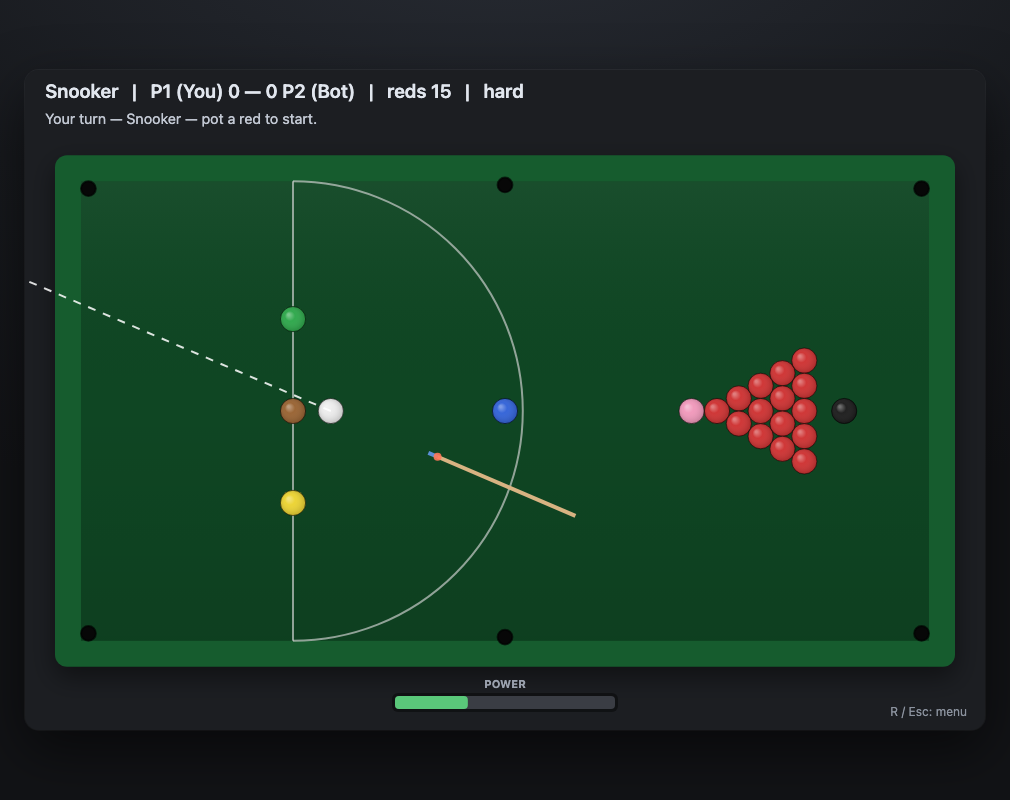
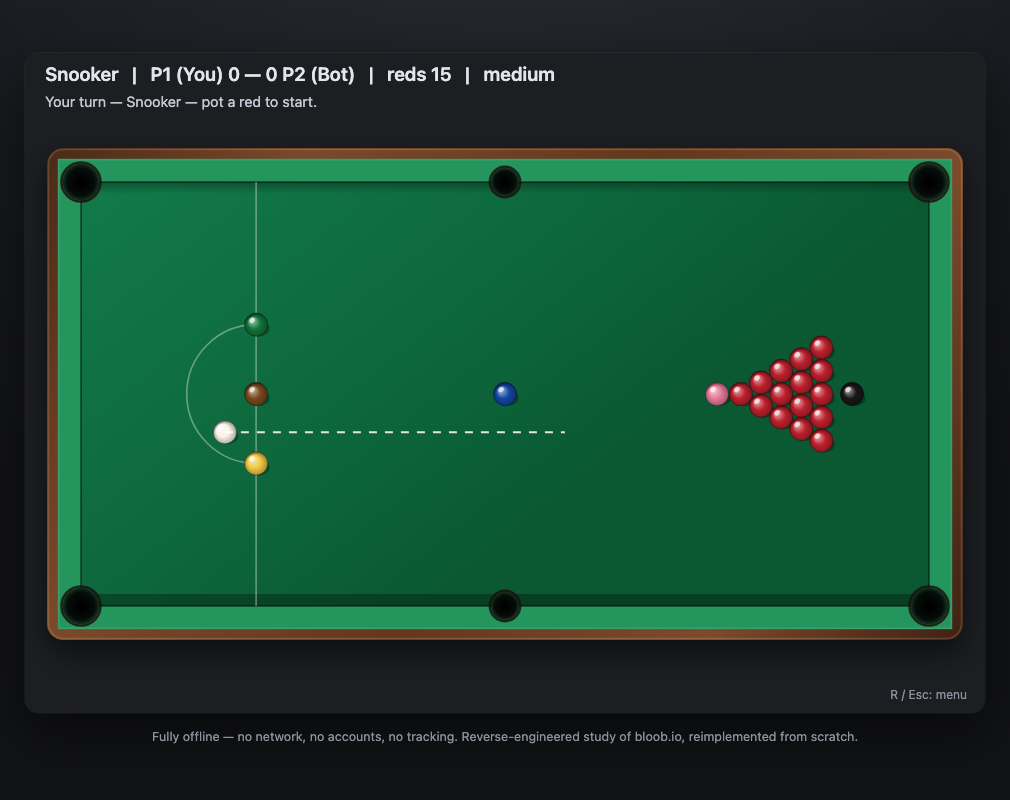
docs: document position play, standard snooker table; add Pages deploy
Also adds a GitHub Actions workflow that publishes web/ to GitHub Pages on
every push to main.

diff --git a/docs/REA_findings.md b/docs/REA_findings.md
@@ -72,8 +72,10 @@
 - **我们的复刻**（均自写，见 `src/bot.py`）：对每个合法目标球 × 每个袋，用**幽灵球（ghost-ball）**算出母球应到达的触点，做母→幽灵、目标→袋两条**路径贯通检查**；仅对几何通透的候选在克隆世界上模拟，再按模式评分：
   - 8 球：自己球组落袋 +100、对手球 -30、母球进袋 -250、未清组误落 8 直接 -1000、通透加 +25、清组后合法 8 球 +500。
   - 斯诺克：落袋按分值计分（红 1 / 黄 2 / 绿 3 / 棕 4 / 蓝 5 / 粉 6 / 黑 7）；犯规（母球进袋 / 首球非法 / 漏球）对手得 `max(4, 首球值, 落袋值)`。
-  - 找不到可落袋候选时走**安全球**：轻碰最近的合法球、避免进袋。
-  - 难度档（`DIFFICULTY`）：easy/medium/hard 调整瞄准噪声、候选搜索深度、力度抖动；hard 几乎零噪声、全搜索。
+- 找不到可落袋候选时走**安全球**：轻碰最近的合法球、避免进袋。
+- **走位评估（REIMPLEMENTATION，自写）**：每个模拟候选都会记录**母球停点**，再用同一套幽灵球检查判断"从这个位置还有没有清晰下一杆"——按 **8 球分组 / 斯诺克阶段**推出"下一杆 on 球"，遍历其 × 袋口，取最好的通透度（距离越短越优）归一化到 0..1。落袋后无清晰下一杆时给**负分**，所以 bot 会宁愿选一杆略难但留得住位的球。权重：8 球 `+60`（死位 `-22`），斯诺克 `+6`（死位 `-2.5`）。
+- **一库解球（REIMPLEMENTATION，自写）**：无可落袋候选时（被斯诺克），把每个目标球对**每条库边**做镜像，求"母球→镜像点"与库边线段的交点得到撞库点（沿入射方向回退一个球半径补偿），检查母→撞库点、撞库点→目标两条路径，再在克隆世界模拟；优先选**首球合法**的线路（+30，母球进袋 -300、漏球 -60、首球非法 -120）。都不可行才退回安全球。
+- 难度档（`DIFFICULTY`）：easy/medium/hard 调整瞄准噪声、候选搜索深度、力度抖动；hard 几乎零噪声、全搜索。
 
 ## 6. 未知 / 局限（UNKNOWN）与已决建模
 - 碰撞积分公式（自研 vs Matter.js 风格）— 引擎块未静态定位，无法确认 → **我们采用标准脉冲式圆-圆弹性碰撞 + 库边反射**。
@@ -83,7 +85,8 @@
 - `hole.radius`(5/11) 小于球半径 → 字面复刻下球几乎无法落袋 → **落袋捕获半径放宽为 1.5× 球半径**（袋口"嘴"略宽），保证可玩；库边缺口(gap)取 1.1× 球半径。
 - 斯诺克状态一致性 → **红球落袋无论是否犯规都同步递减计数**；红球未清空前落袋彩球一律重摆（见 §4 "斯诺克状态一致性" 决策）。这是复刻过程中实测发现并修复的 bug（bot-vs-bot 时计数漂移导致卡死）。
 - 高速球**可能从袋口缝隙逃出台面**（角袋缺口的对角长约 17.1 > 捕获半径 16.5，存在一条细缝）→ 增加**台面边界兜底**：出界且靠近袋口判定为落袋，否则夹回台内并按库边弹性反弹。修复后模拟必收敛、球永不离台（见 `_contain_ball`）。
-- 斯诺克母球初始位置与棕球重合（均在 `baulk_x, H/2`）→ 母球改为在 D 区内偏移 `3r` 起步；红球三角架方向原本朝左（宽底压住蓝球）→ 改为**顶点朝开球端、向黑球方向张开**，粉球/黑球点位同步微调（6→0.72W、7→0.90W）。
+- 斯诺克母球初始位置与棕球重合（均在 `baulk_x, H/2`）→ 母球改为在 D 区内偏移起步；红球三角架方向原本朝左（宽底压住蓝球）→ 改为**顶点朝开球端、向黑球方向张开**。
+- **斯诺克台面尺寸/球组（REIMPLEMENTATION 决策，与 bloob 不同）**：bloob 的 `field` 为 572×310（1.85:1），**不是标准斯诺克比例**，画出来不像真台。改为标准 12ft 台比例 **2:1**（`620×310`），球半径 8.5（约 0.0137L，标准值 52.5/3569≈0.0147L，取小一点以保证 15 红三角与黑球之间不重叠），并按标准比例标定：开球线 `0.2065L`、D 区半径 `0.1636W`、蓝球 `0.5L`、粉球 `0.75L`、黑球 `0.9092L`（离顶库 324mm）、黄/绿在 D 区两端、棕球在 D 区中点。袋口位置改回**四角 + 两条长边中点**（标准 6 袋），角袋绘制半径大于中袋。
 
 ## 8. 引擎/bot 源码未静态可达（重要结论）
 - 已下载：8ballpool 静态 HTML 的全部 `/assets/*.js`（41 个）+ 台球相关专用块（`Game-*`、`PoolGame`、`poolGeneric`、`poolRackLogic`、`usePoolResources`）+ `app` 引用的全部 116 个块（含 `engine_hunt/` 全量扫描）。
@@ -98,7 +101,8 @@
 4. 界面/输入/渲染：`src/main.py`（pygame 菜单 + 弹弓式瞄准 + 动画步进 + HUD）。
 5. 全部代码独立重写，不含 bloob 专有代码/素材；bloob 原始 JS 仅在 `artifacts/`（被 `.gitignore` 排除，不入库）。
 6. **离线网页（`web/`）**：把上述物理/规则/bot **逐行移植为纯 JavaScript**，UI 用 Canvas 2D 重写。刻意使用 classic `<script>`（非 ES module），因此 `file://` 直接双击即可运行，无需本地服务器、零依赖、零网络。
-7. 验证：Node 无头跑逻辑不变量（14 项）+ 无头 DOM/Canvas 跑 UI 交互（20 项）；并用 headless Chrome 真实截图核对版式（见 `docs/screenshots/`）。
+7. 验证：Node 无头跑逻辑不变量（14 项）+ 走位/解球专项（6 项）+ 无头 DOM/Canvas 跑 UI 交互（20 项）；并用 headless Chrome 真实截图核对版式（见 `docs/screenshots/`）。
+8. **斯诺克台面按标准样式重绘**：木质台身、比台呢略亮的库边胶条、绿色台呢带光泽、开球线与 D 区、六个点位、角袋大于中袋、无色号的高光球体（母球象牙白）。
 
 > 建模决策（UNKNOWN 项）已在 §6 给出：摩擦用每秒指数衰减；落袋捕获半径放宽为 1.5× 球半径以保证可玩；
 > 另加台面边界兜底、母球在 D 区内偏移起步、红球三角架方向修正。移植到网页时这三处真实 bug 一并修复（Python / JS 双端同步）。

diff --git a/README.md b/README.md
@@ -58,10 +58,38 @@ docs/REA_findings.md     reverse-engineering findings & modelling decisions
 
 ## How the AI works
 
-For every legal target ball × pocket it computes the **ghost-ball** contact point, checks that both the
-cue→ghost and target→pocket paths are clear, simulates the shot on a clone of the world, and scores the
-outcome. It picks the best makeable pot, or plays a safety when none exists. Difficulty tiers change aim
-noise and search depth. The physics is framework-agnostic, so the bot runs headless.
+**Pot search.** For every legal target ball × pocket it computes the **ghost-ball** contact point, checks
+that both the cue→ghost and target→pocket paths are clear, simulates the shot on a clone of the world, and
+scores the outcome.
+
+**Position play (走位).** Every simulated candidate also reports where the **cue ball came to rest**. The bot
+then scores that resting position by asking "is there a clean pot available from here?" — it re-runs the
+ghost-ball check from the new cue position against the balls that will be *on* next (group-aware for 8-ball,
+phase-aware for snooker). A pot that leaves a good angle gets a bonus; a pot that leaves the cue snookered
+gets a **penalty**, so the bot prefers a slightly harder pot that keeps position.
+
+**Escape shots.** When nothing can be potted (blocked line, i.e. snookered), it mirrors each target across
+every cushion to build **one-rail bank/kick** lines, simulates them, and plays the one that legally contacts
+the ball that is on. A plain safety is the last resort.
+
+Difficulty tiers change aim noise, search depth and power jitter. The physics is framework-agnostic, so the
+whole bot runs headless (that is how it is verified).
+
+## Standard snooker table
+
+The snooker table is built to real proportions rather than bloob's 1.85:1 field:
+
+| Item | Standard | In game |
+|---|---|---|
+| Playing surface | 3569 × 1778 mm (**2:1**) | 620 × 310 units |
+| Baulk line | 737 mm from baulk cushion (**0.2065 L**) | same fraction |
+| The D | 292 mm radius (**0.1636 W**) | same fraction |
+| Blue / pink / black | centre / 0.75 L / 324 mm off the top cushion | 0.5 / 0.75 / 0.9092 L |
+| Yellow, green, brown | corners + middle of the D | same |
+
+Rendering is standard snooker too: mahogany body, lighter rubber cushion band, green baize with a cloth
+sheen, baulk line + D, the six spots, corner pockets larger than the middles, and plain glossy unnumbered
+balls in the real snooker colours (ivory cue ball).
 
 ## Physics & rules highlights
 
@@ -94,6 +122,8 @@ The JavaScript port surfaced three genuine bugs that also affected the Python bu
 
 - **Logic (Node, headless): 14/14** — physics settles; a full 8-ball frame completes; **no ball ever leaves
   the table**; snooker reds decrement consistently; colours pot in ascending order.
+- **Position play & escapes (Node, headless): 6/6** — a deliberately snookered cue finds a one-rail kick that
+  contacts the ball on, stays on the table, and the 8-ball / snooker frames still finish.
 - **UI wiring (headless DOM/Canvas): 20/20** — menu → start → place → aim → shoot → resolve → bot turn, for
   both modes, plus the game-over overlay.
 - Screenshots above are real renders captured with headless Chrome.
@@ -107,7 +137,10 @@ The JavaScript port surfaced three genuine bugs that also affected the Python bu
 - [x] Snooker rules + AI
 - [x] pygame desktop UI
 - [x] **Zero-dependency offline web build (Canvas 2D)**
+- [x] Standard-proportion snooker table, markings and ball set
+- [x] Bot position play (走位) + one-rail escape shots
 - [x] Offline verification: 8-ball and snooker can be played to completion
+- [x] Hosted copies: GitHub Pages & WorkBuddy
 
 ## Disclaimer
 
@@ -120,7 +153,10 @@ Learning / engineering exercise. Gameplay inspiration comes from bloob.io (Kingl
 
 离线八球 / 斯诺克人机对战。现在提供**零依赖离线网页**：直接双击 `web/index.html` 即可在浏览器里玩，
 无需安装、无需本地服务器、全程无网络。原有 `src/`（Python + pygame）桌面版逻辑完全一致，保留可用。
-逆向结论、建模决策与三处移植中修复的 bug 见上文与 `docs/REA_findings.md`。
+斯诺克台面按**标准 2:1 比例**重建（开球线 0.2065L、D 区半径 0.1636W、粉球 0.75L、黑球 0.9092L），
+配木质台身、绿色台呢、开球线与 D 区、六个点位、角袋大于中袋、无色号的高光球体。
+bot 除 ghost-ball 进球搜索外，新增**走位评估**（打完球后母球是否还有清晰下一杆）与**一库解球**救球，
+被斯诺克时不再直接犯规。逆向结论、建模决策与移植中修复的 bug 见上文与 `docs/REA_findings.md`。
 
 ---
 
